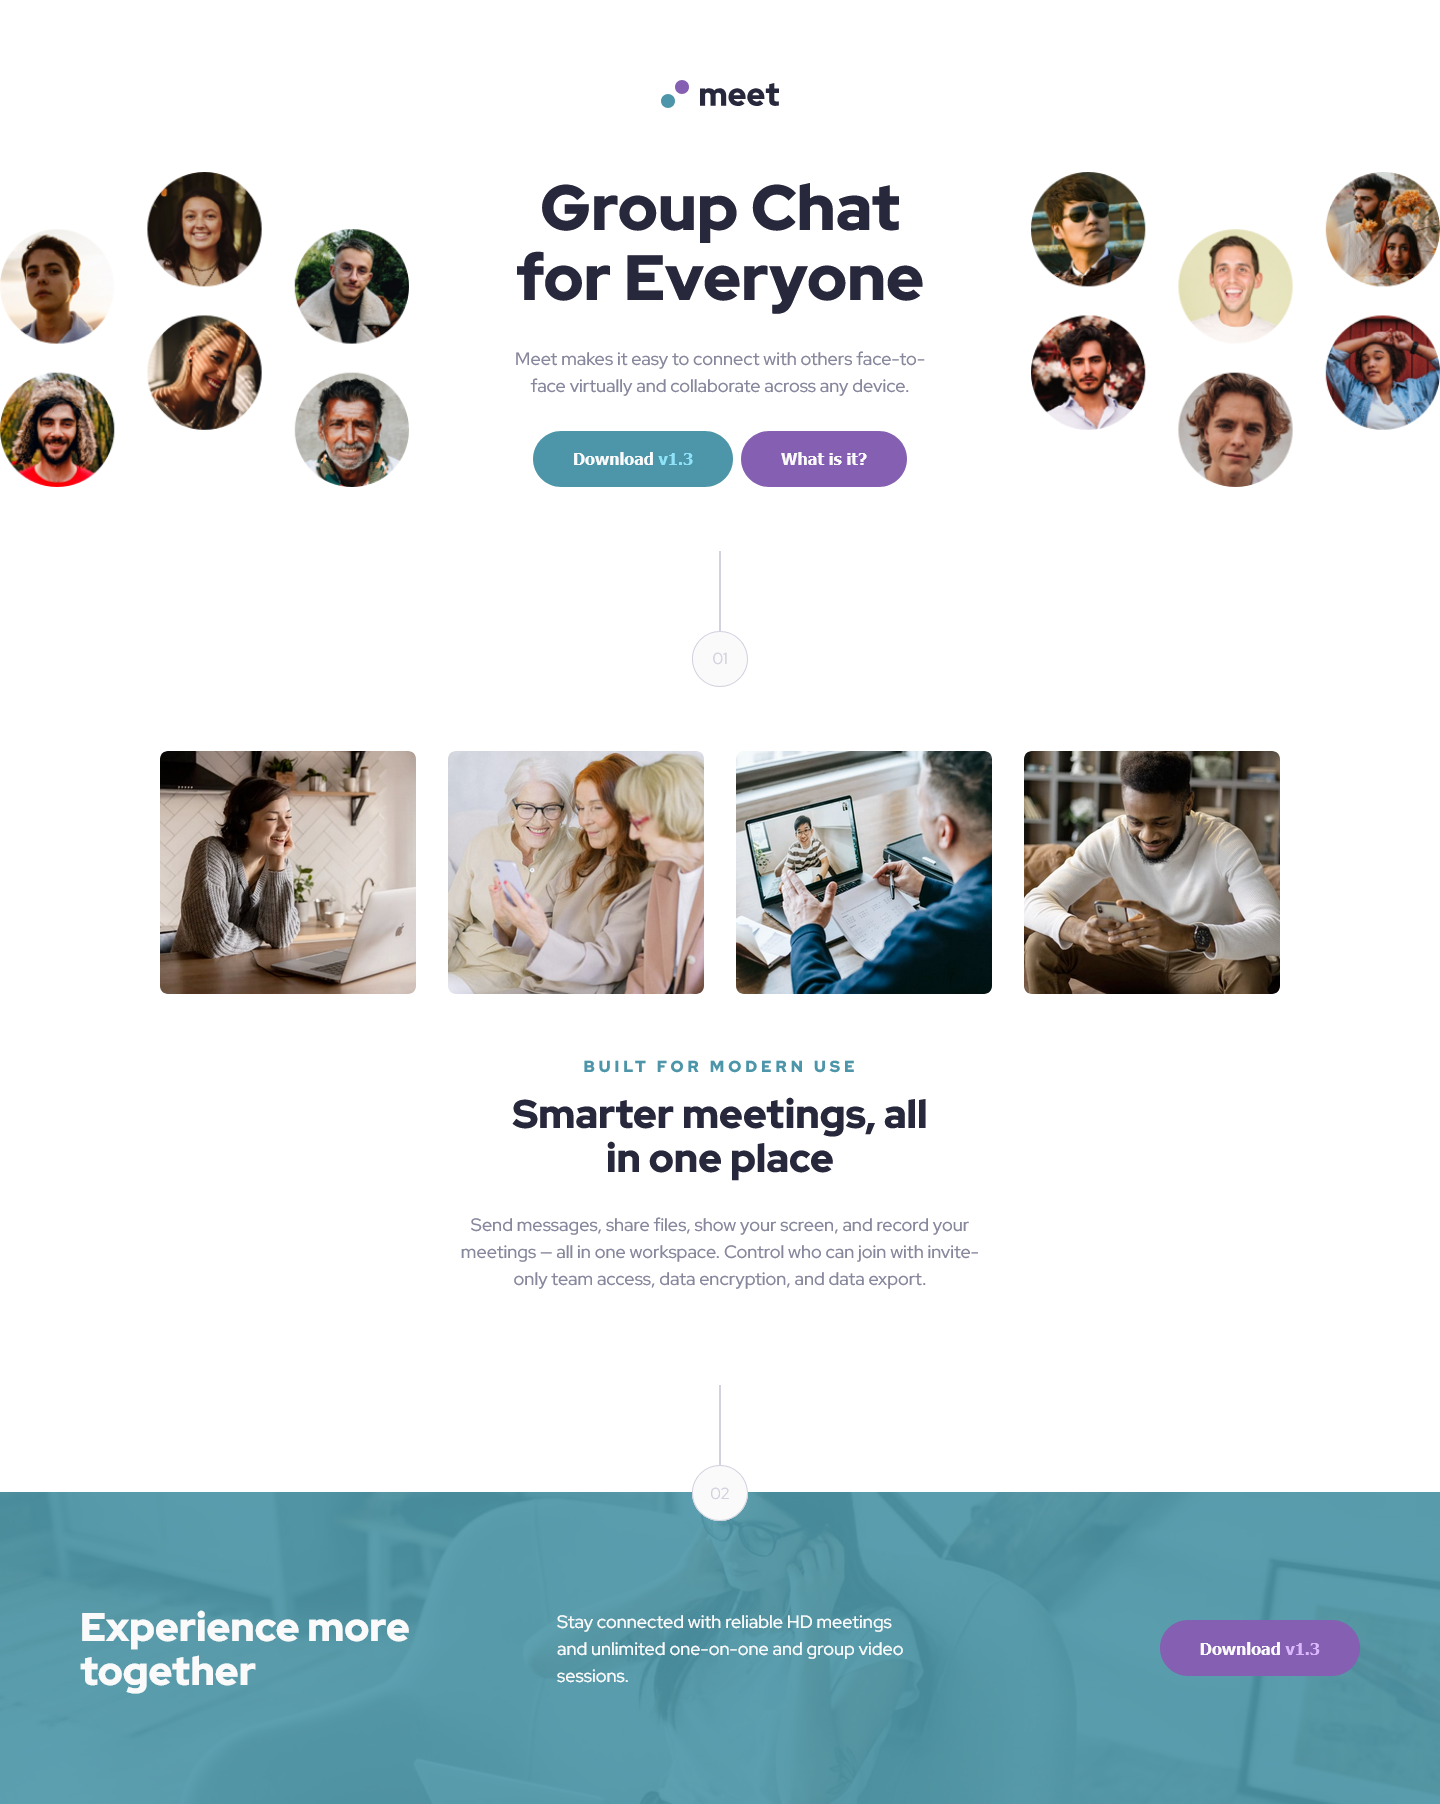
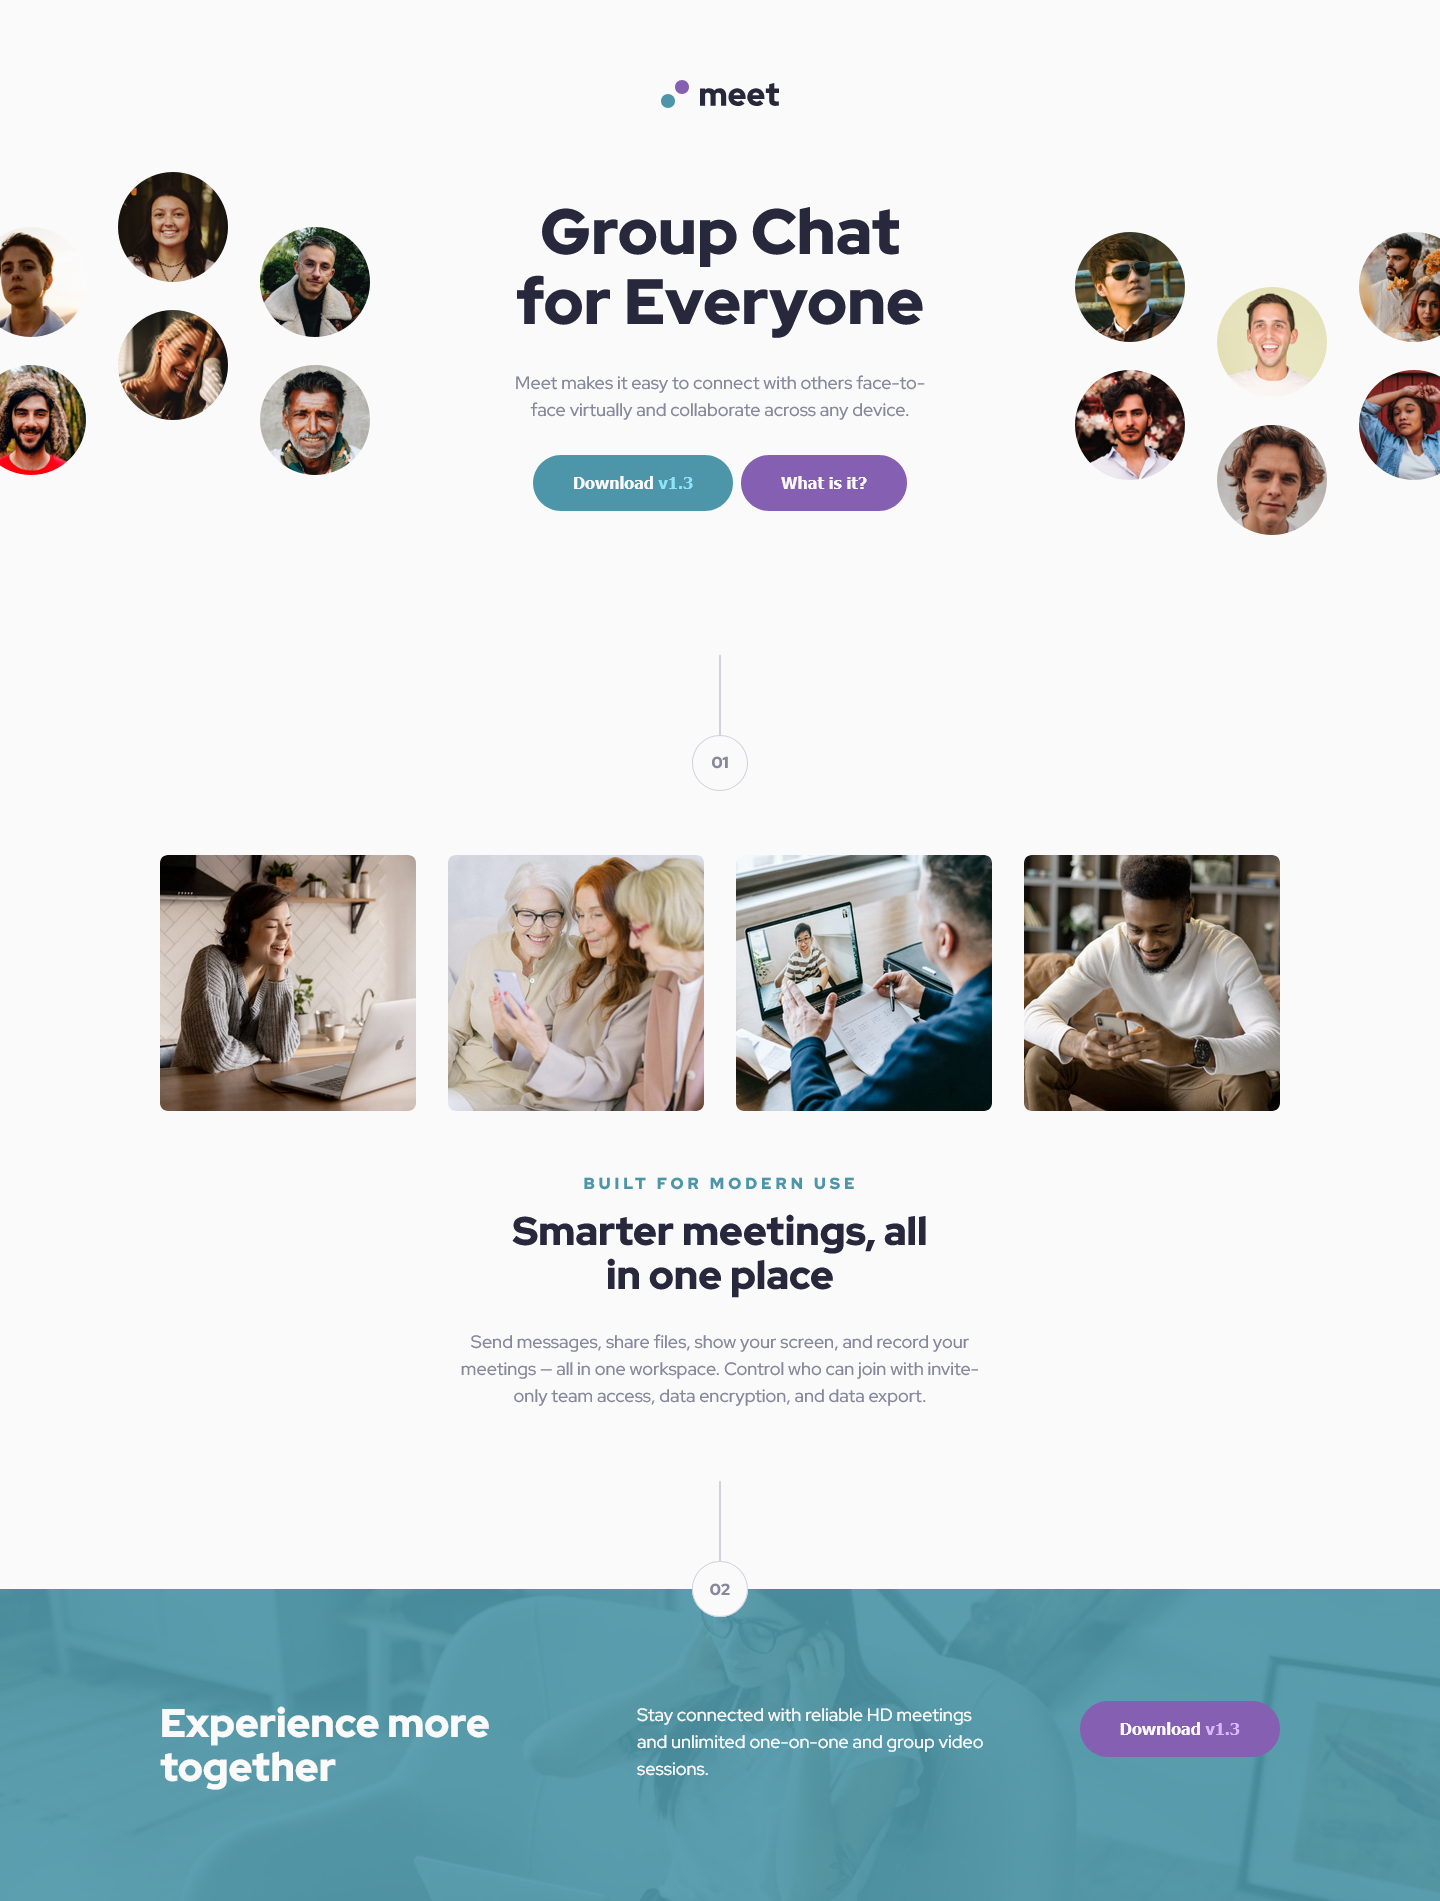
finish solution

diff --git a/style.css b/style.css
@@ -1,4 +1,4 @@
-/* CSS Reset */
+/* CSS RESET */
 *, *::before, *::after {
     margin: 0;
     padding: 0;
@@ -425,7 +425,7 @@ body {
 
     .hero::before {
         content: '';
-        display: inline-block;
+        display: block;
         background: url(/assets/desktop/image-hero-left.png) top right/contain no-repeat;
         width: calc(394 / 16 * 1rem);
         height: calc(303 / 16 * 1rem); 

diff --git a/README.md b/README.md
@@ -59,24 +59,40 @@ Users should be able to:
     grid-template-columns: 1fr 1fr 1fr;
     grid-template-rows: 1fr;
     gap: var(--space-400);
+    margin: 0 auto;
+    padding: var(--space-800) 0 var(--space-800);
+    overflow-x: hidden;
 }
 
 .hero::before {
     content: '';
-    display: inline-block;
-    background: url(/assets/desktop/image-hero-left.png) top left/contain no-repeat;
+    display: block;
+    background: url(/assets/desktop/image-hero-left.png) top right/contain no-repeat;
+    width: calc(394 / 16 * 1rem);
+    height: calc(303 / 16 * 1rem); 
+    margin-right: auto;
+    margin-left: -1.5rem;
 }
 
 .hero__cta {
     grid-column: 2;
     grid-row: 1;
+    gap: var(--space-400);
+    margin-top: 1.5rem;
+    margin-bottom: 1.5rem;
 }
 
 .hero::after {
     content: '';
-    display: inline-block;
-    background: url(/assets/desktop/image-hero-right.png) top right/contain no-repeat;
+    display: block;
+    background: url(/assets/desktop/image-hero-right.png) bottom right/contain no-repeat;
+    width: calc(394 / 16 * 1rem);
+    height: calc(303 / 16 * 1rem);
+    margin-left: auto;
+    align-self: flex-end;
+    margin-right: -1.8rem;
 }
+
 ```
 
 ## Author
